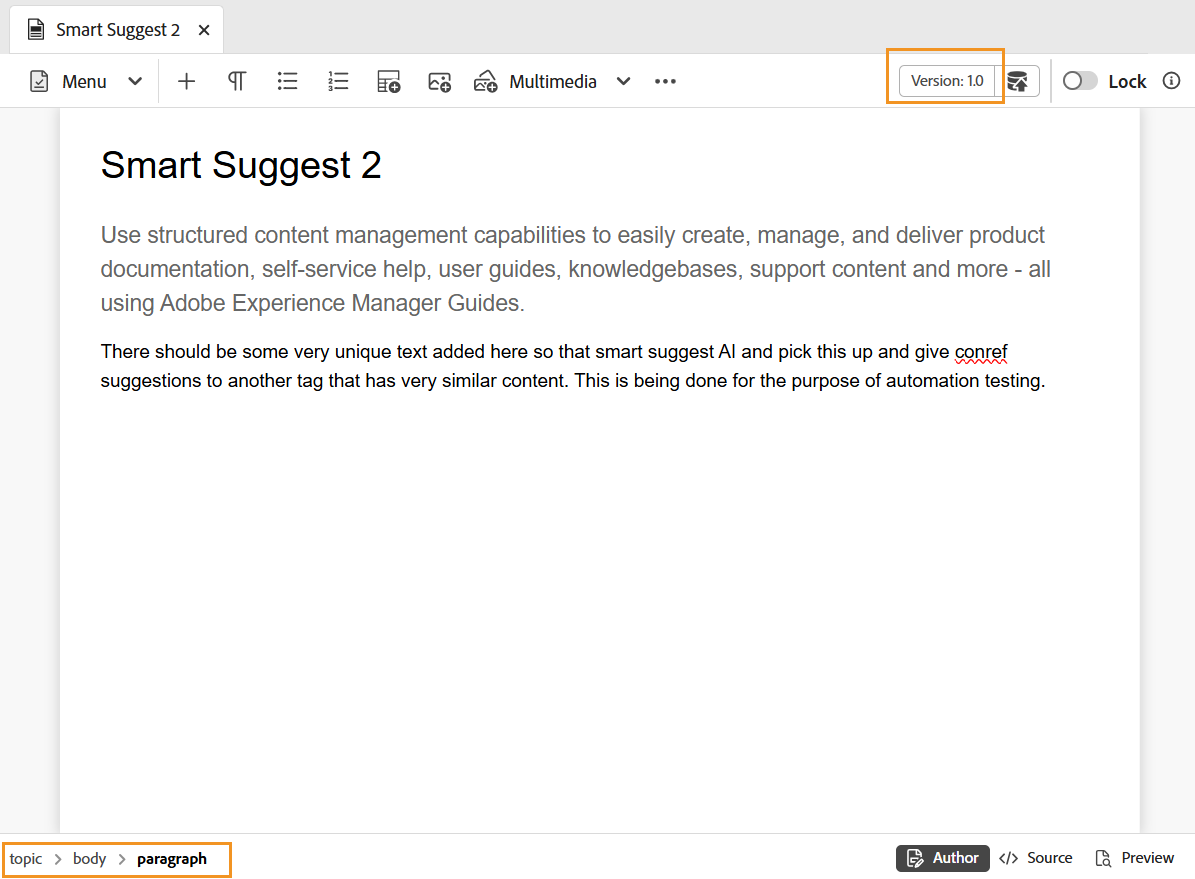
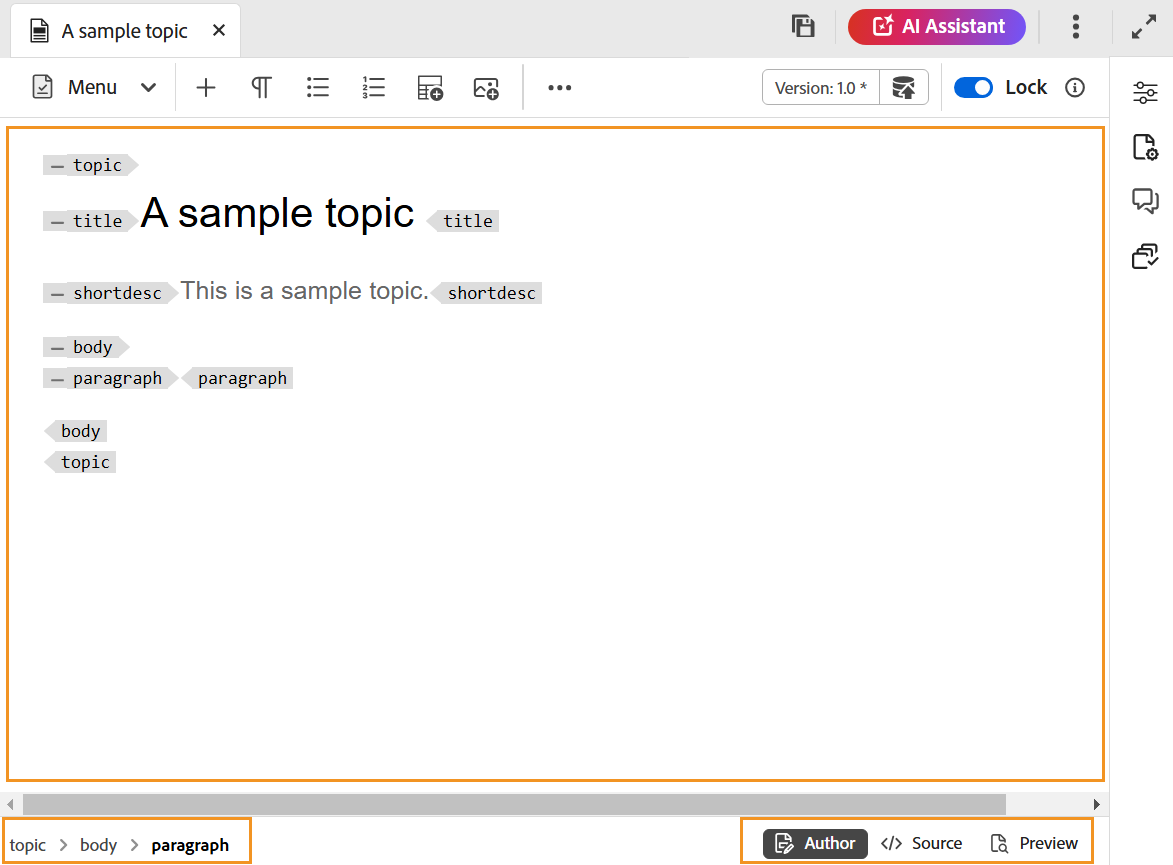
updated

Changed region(s): [[0.0, 0.0, 1.0, 0.9988]]

diff --git a/help/product-guide/user-guide/web-editor-features.md b/help/product-guide/user-guide/web-editor-features.md
@@ -1,6 +1,6 @@
 ---
 title: Know the Editor features
-description: Discover features of the Editor in Adobe Experience Manager Guides. Know the editor's interface, including the main toolbar, secondary toolbar, left panel, content editing area, and right panel.
+description: Discover features of the Editor in Adobe Experience Manager Guides. Know the editor's interface, including the Header bar, tab bar, toolbar, left panel, content editing area, and right panel.
 exl-id: 340cf72e-e44d-4df2-8312-50d00ac651b7
 feature: Authoring, Features of Web Editor
 role: User
@@ -9,17 +9,39 @@ role: User
 
 This section walks you through the various features that are available in the Editor. We can divide the Editor into the following sections or areas:
 
-- [Main toolbar](#main-toolbar)
-- [Secondary toolbar](#secondary-toolbar)
+- [Header bar](#header-bar)
+- [Tab bar](#tab-bar)
+- [Toolbar](#toolbar)
 - [Left panel](#left-panel)
 - [Content editing area](#content-editing-area)
 - [Right panel](#right-panel)
 
 The following subsection cover in details the various sections of the Editor.
 
-## Main toolbar
+## Header bar
 
-The main toolbar is at the top of the Editor's interface and it provides access to the following features:
+The header bar is the top bar of the Editor that displays the Adobe Experience Manager logo (or a Unified Shell if you are using the Unified Shell as your Experience Manager Guides UI). When you select the logo, it directs you to the Experience Manager Navigation page.
+
+![](./images/aem-home-header.png)
+
+Use the **Expand** icon in the toolbar to hide the header bar and maximize the content area. To restore the standard view, select **Exit the expanded view**.
+
+
+## Tab bar
+
+The Tab bar is at the top of the Editor's interface and it provides access to the following features:
+
+![](./images/tab-bar.png)
+
+**Tabs**
+
+Displays the currently opened topics in the Editor as file tabs. You can have multiple topics opened at the same time, which are displayed in their respective tabs in the tab bar. By default, you can view the file titles in the tabs. As you hover over a file, you can view the file title and the file path as a tooltip.
+
+>![NOTE]
+>
+> As an administrator, you can also choose to view the list of files by filenames in the tabs. Select the **Filename** option of the **Editor files display configuration** section in [User preferences](./intro-home-page.md#user-preferences).
+
+Selecting the file tab opens a context menu featuring Save as new version, Copy, Locate in, Add to, Properties, Split, Download as PDF, and Close options. 
 
 **Save all** 
 
@@ -31,13 +53,22 @@ Saves the changes you have made in all opened topics. If you have multiple topic
 
 **AI Assistant**
 
-[AI-powered Smart Help and Authoring feature](./ai-assistant.md) that helps you find relevant content from the Adobe Experience Manager Guides Documentation and simplifies document handling through intelligent suggestions and optimization.
+A powerful, AI-driven tool designed to enhance your productivity through smart help and authoring features. It brings together two robust AI features — **Authoring** and **Help** — into the Experience Manager Guides interface, enabling you to author content and access information from Experience Manager Guides documentation faster and more efficiently. 
+
+>[!NOTE]
+>
+> The AI Assistant feature is currently available for Adobe Experience Manager Guides as a Cloud Service.
 
 **Expand view**: Allows you to expand the page view using the **Expand** icon. In this view, the header bar containing the Adobe Experience Manager logo, is hidden. This maximizes the content space for editing. To return to the standard view, use the **Exit the expanded view** icon.
 
 **More actions**: Allows you to navigate to the **Assets UI** and **Settings**. 
 
-The Settings option is available only for administrators and allows configuring the following settings:
+The **Assets UI** option takes you to a destination based on your setup:
+
+ - Cloud Services: If you are using Cloud Services, selecting the Assets UI optionTakes you to the AEM Navigation page.
+ - On-premise software: If you are using Adobe Experience Manager Guides (4.2.1 and later), selecting the Assets UI option takes you to your current file path in the Assets UI. 
+
+The **Settings** option is available only for administrators and folder profile administrators, and allows configuring the following settings:
 
 >[!NOTE]
 >
@@ -71,7 +102,9 @@ The Settings option is available only for administrators and allows configuring 
     -  **AI Assistant**
        Select this to enable the [AI Assistant](./ai-assistant.md) feature in the Experience Manager Guides. Unselect to disable the feature. 
 
-**Panels**: This setting controls the panels that are shown in the left and right panels of the Editor and Map console. You can toggle the switch to show or hide the desired panel.
+**Panels**: This setting controls the panels that are shown in the left and right panels of the Editor and Map console. You can toggle the button to show or hide the desired panel. Panels can be rearranged using a drag-and-drop function, allowing you to set their order. A panel can also be moved from the **More** section to the main section, and vice-versa as per the requirement. 
+
+A maximum of eight panels can be displayed at a time. Any changes made to the panel settings are applied immediately. 
 
 ![](images/editor-setting-panel.png){width="650" align="left"}
 
@@ -218,18 +251,22 @@ In the following screenshot, only 3 out of 4 configured elements from the previo
     You can also define the order in which these metadata tags are displayed. To change the default order of these tags, select the dotted bars to drag and drop the tags at the desired location.
     The metadata labels appear in the same sequence in the **Version history** dialog box of the Editor. 
 
-## Secondary toolbar
+## Toolbar
   
-The secondary toolbar appears when you open a topic for editing in the Editor. Features available in the secondary toolbar are as follows:
+The toolbar appears when you open a topic or map for editing in the Editor. Features available in the toolbar are as follows:
 
 - [Menu dropdown](#menu-dropdown)
 - [Content insertion options](#content-insertion-options)
-- [Save as new version](#save-as-new-version)
+- [Version information and  Save as new version button](#save-as-new-version)
 - [Lock/unlock](#lockunlock)
+
+>[!NOTE]
+>
+> The features listed above are applicable only for topic files. When working with a map file, different options are displayed in the toolbar based on the current Map editor view. Learn about the Map editor toolbar options in the [Map editor features](./map-editor-advanced-map-editor.md) document.
 
 ### Menu dropdown 
 
-The Menu dropdown provides access to the various editing actions, Find and replace, Version history, Version label, Merge, Create review task, Track changes, and Tags feature. 
+The Menu dropdown provides access to the editing actions, Find and replace, Version history, Version label, Merge, Create review task, Track changes, and Tags feature. 
 
 The detailed explanation of these features is as follows:
 
@@ -240,7 +277,7 @@ When editing a topic in the Editor, access the various editing actions such as *
 
 **Find and replace**
 
-The **Find and replace** feature is available in Author and Source view modes. when enabled, the Find and Replace text bar appears at the bottom of the topic editing area. You can use the shortcut keys **CTRL**+**F** to invoke the Find and replace bar.
+The **Find and replace** feature is available in Author and Source view modes. When enabled, the Find and Replace text bar appears at the bottom of the topic editing area. You can use the shortcut keys **CTRL**+**F** to invoke the Find and replace bar.
 
 ![](images/find-replace-bar.png){width="800" align="left"}
 
@@ -252,9 +289,11 @@ In the Source view, the **Find and replace** feature is extremely useful for sea
 
 **Version history**
 
-The **Version history** feature in the Editor allows you to check the available versions of your DITA files, compare them, and revert to any version from the Editor itself.
+The **Version history** feature in the Editor allows you to check the available versions of your DITA files, compare them, and revert to any version from the Editor itself. You can compare the content and metadata of the current version (which can also be a working copy) with any previous version of the same file. You can also view the labels and comments for the compared versions.
 
-In the version history, you can compare the content and metadata of the current version (which can also be a working copy) with any previous version of the same file. You can also view the labels and comments for the compared versions.
+>[!NOTE]
+>
+> The Version history options only appears if there are changes made to the first version of the topic or map. 
 
 To access the version history and revert to a specific version of your topic, perform the following steps:
 
@@ -284,7 +323,7 @@ To access the version history and revert to a specific version of your topic, pe
 
     >[!NOTE]
     >
-    > Your system administrator can change the metadata to be shown from the Metadata tab in the **Settings**.
+    > Your system administrator can change the metadata to be shown from the Metadata tab in the **Settings**. For details, refer to the the **More actions** section of the [Tab bar](#tab-bar).
 
 You can also view the user and time details of the current and the compared version.
   
@@ -412,7 +451,7 @@ When you work in a multi-author environment, it becomes difficult to track what 
 
 **Create review task** 
 
-You can create a review task of the current topic or map file directly from the Editor. Open the file for which you want to create the review task and select **Create review task** from the Menu dropdown to initiate the review creation process.
+You can [create a review task](./review-send-topics-for-review.md) of the current topic or map file directly from the Editor. Open the file for which you want to create the review task and select **Create review task** from the Menu dropdown to initiate the review creation process.
 
 **Track changes**
 
@@ -440,9 +479,9 @@ If you want to accept or reject all changes with a single click, select **Accept
 
 **Tags**
 
-Tags are visual cues indicating an element's boundaries. An element boundary marks the beginning and end of an element. You can then use these boundaries as a visual cue to place the insertion point or select the text within a boundary. If you want to insert another element before or after an element in the document, you can place the insertion point before or after the opening or closing boundary of the element.
+The **Tags** feature in the Editor is a toggle button that controls the visibility of DITA elements. When enabled, it displays structural tags within the content, allowing you to view and manage the underlying DITA elements more effectively. When disabled, the editor hides these tags, providing a cleaner and more focused authoring environment.
 
-The following screenshot shows a document with the Tags view ON:
+The following screenshot shows a document with the Tags view enabled:
 
 ![](images/tags-view.png){width="650" align="left"}
 
@@ -747,13 +786,21 @@ Create Citations and add them to your content. Learn how to [add and manage cita
 
 Connect with your data source and use the data to create content. Learn how to [use data from your data source](./web-editor-content-snippet.md).
 
-### Save as new version
+### Version information and Save as new version
 
-Saves the changes you have made in your topic and also creates a new version of your topic. If you are working on a newly created topic, the version information is shown as **none**.
+The **Version information & Save as new version** feature combines version tracking and content saving into a single functionality.
 
-![](images/save-all-first-version-none_cs.png){width="800" align="left"}
+- Version information displays the current version of the topic or map. An asterisk (*) appears next to the version number to indicate unsaved changes. 
 
-The version number changes with every new version that is created for the topic or map file.
+    The version number changes with every new version that is created for the topic or map file. If you are working on a newly created document, the version information is shown as **none**.
+
+    ![](images/version-information.png){width="800" align="left"}
+
+
+- **Save as new version** is a button that saves the changes you have made in your topic and also creates a new version of your topic.
+
+    ![](images/save-as-new-version.png){width="800" align="left"}
+
 
 When you choose to save a topic or map using **Save as new version**, the following dialog box appears:
 
@@ -791,6 +838,8 @@ In the Repository panel, the locked files are displayed with a lock icon. When y
 
 ![](images/web-editor-locked-by-icon-new.png){width="350" align="left"}
 
+If a file is locked by another user, hovering over the lock icon in the Repository displays the name of the user who locked it. In this case, the file opens in Read-only mode, with **Read-only access** displayed next to the version information.
+
 As an administrator, you also get access to the **Force unlock** feature that allows you to unlock the file locked by other users. Use this feature to access the editing rights on a file locked by other users. 
 
 ![](images/web-editor-force-unlock-new.png){width="350" align="left"}
@@ -826,13 +875,13 @@ Some of the features in the left panel are available under the **More** section.
 - [Review](#review)
 
 
-An additional option labeled as **Workfront** is also displayed under **More** in the left panel if Adobe Workfront is configured. 
+An additional option labeled as **Workfront** is also displayed in the left panel if Adobe Workfront is configured. 
 
 For details, view [Workfront integration](./workfront-integration.md).
 
 >[!NOTE]
 >
-> The features available in the left panel are managed by your administrator, enabling them to enable or disable the individual features present in the left panel. Only enabled features are displayed in the left panel. For more details, view the [Main toolbar](#main-toolbar) section of this guide. 
+> The features available in the left panel are managed by your administrator, allowing them to enable or disable the individual features present in the left panel. Only enabled features are displayed in the left panel. For more details, view the **Panels** section of [Tab bar](#tab-bar). 
 
 The detailed explanation of the left panel features is as follows:
 
@@ -1183,7 +1232,7 @@ By default, you can view the files by titles. As you hover over a file, you can 
 >As an administrator, you can also choose to view the filename of the parent map which is currently opened in the map view. Select the **File name** option of the **View files by** section in **User preferences**.
 
 
-When you open a map in the map view, the title of the current map is displayed in the centre of the main toolbar. If the title is too long, then an ellipsis is displayed and you can also hover over the title to see the full title in the tool tip. 
+When you open a map in the map view, the title of the current map is displayed in the centre of the Tab bar. If the title is too long, then an ellipsis is displayed and you can also hover over the title to see the full title in the tool tip. 
 
 When you define key attributes for the topic or map references, you can view the title, the corresponding icon, and the key in the left panel. The key is displayed as `keys=<key-name>`. 
 
@@ -1682,7 +1731,7 @@ You can also change the values from the attribute's drop-down in the Source view
 
 You can also view and apply the subject scheme from the Conditions panel.
 
-To view the subject scheme from the Conditions panel, your system administrator must select the **Show subject scheme in the Conditions panel** option under the General tab in Settings. For more details, view the **Settings** section in the [Main toolbar](#main-toolbar).
+To view the subject scheme from the Conditions panel, your system administrator must select the **Show subject scheme in the Conditions panel** option under the General tab in Settings. For more details, view the **Settings** section in the [Tab bar](#main-toolbar).
 
 The Conditions panel displays the flat vertical structure of the subject definitions within the subject scheme.
 
@@ -1881,16 +1930,21 @@ To view the review comments in the active review tasks that are present in your 
 
 ## Content editing area 
 
-The content editing area is where the content of your topic or map is displayed. You make all content edits in this area. It gives a WYSIWYG view of the content you are editing. You can have multiple topics opened at the same time, which are displayed in their respective tabs.
+The content editing area is where the content of your topic or map is displayed. You make all content edits in this area. It gives a WYSIWYG view of the content you are editing. 
 
-By default, you can view the file titles in the tabs. As you hover over a file, you can view the file title and the file path as a tooltip.
+At the bottom-left of the content editing area, you have the breadcrumb of the element at current cursor location. In the bottom-right corner, the available [Editor views](./web-editor-views.md) are displayed.
 
->[!NOTE]
->
-> As an administrator, you can also choose to view the list of files by filenames in the tabs. Select the **File name** option of the **View files by** section in **User preferences**.
+ ![](images/content-editing-area.png){width="800" 
+ align="left"}
 
- ![](images/content-editing-area.png){width="650" align="left"}
+ When working with a map file, the content editing area is disaplayed with different options including, a Layout view for the map file and the ability to open topic files present in the map from the layout view and author view. 
 
+ ![](images/content-editing-area-maps.png){width="800" 
+ align="left"}
+
+ For more details, view [Map editor features](./map-editor-advanced-map-editor.md).
+
+**Rename or replace an element** 
 ## Right panel
 
 The right panel contains information about the currently selected document.
@@ -1905,6 +1959,7 @@ The right panel gives you access to the following features:
 - [File properties](#file-properties)
 - [Review](#review-1)
 - [Track changes](#track-changes)
+- [Schematron](#schematron)
 
 ### Content properties
 
@@ -2003,7 +2058,14 @@ Using the Tracked changes feature of the right panel, you can view the informati
 
 >[!NOTE]
 >
-> Tracked changes feature shows all updates that have been tracked using the Enable/Disable Track Changes feature of the [main toolbar](#main-toolbar).
+> Tracked changes feature shows all updates that have been tracked using the Enable/Disable Track Changes feature of the [Tab bar](#main-toolbar).
+
+### Schematron
+
+"Schematron" refers to a rule-based validation language used to define tests for an XML file. The Editor supports Schematron files. You can import the Schematron files and also edit them in the Editor. Using a Schematron file you can define certain rules and then validate them for a DITA topic or a map.
+
+Learn how to work with Schematron files in Experience Manager Guides, refer to [Support for Schematron files](./support-schematron-file.md).
+
 
 
 **Parent topic:**[Work with the Editor](web-editor.md)

diff --git a/help/product-guide/user-guide/support-schematron-file.md b/help/product-guide/user-guide/support-schematron-file.md
@@ -7,11 +7,11 @@ role: User
 ---
 # Support for Schematron files
 
-"Schematron" refers to a rule-based validation language used to define tests for an XML file. Web editor supports Schematron files. You can import the Schematron files and also edit them in Web Editor. Using a Schematron file you can define certain rules and then validate them for a DITA topic or a map.
+"Schematron" refers to a rule-based validation language used to define tests for an XML file. The Editor supports Schematron files. You can import the Schematron files and also edit them in the Editor. Using a Schematron file you can define certain rules and then validate them for a DITA topic or a map.
 
 >[!NOTE]
 >
-> Web editor supports ISO Schematron.
+> Editor supports ISO Schematron.
 
 
 ## Import Schematron files
